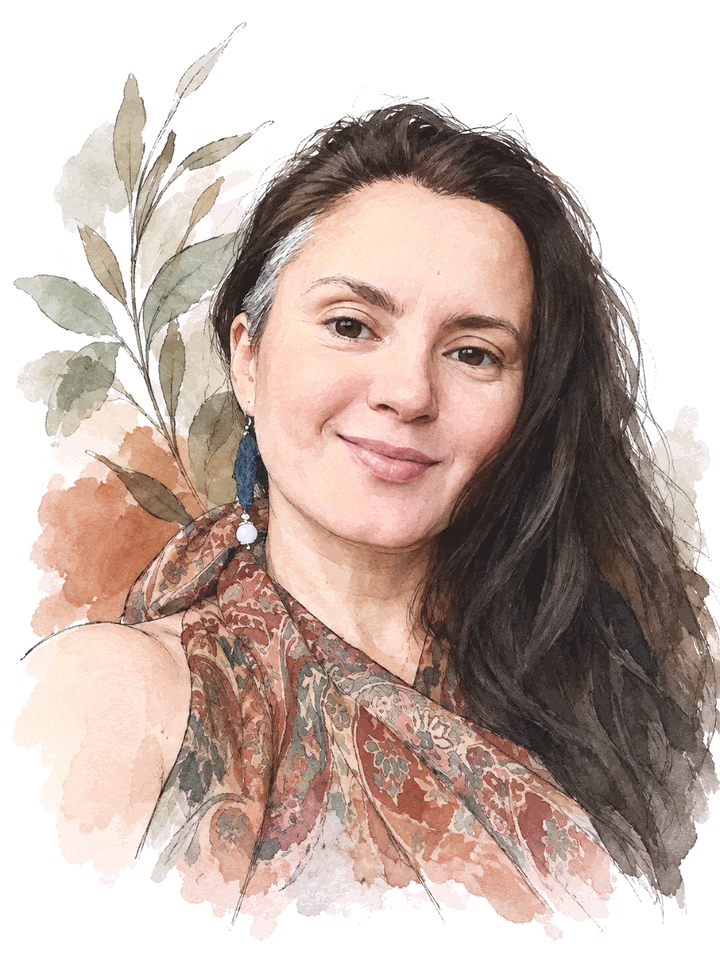
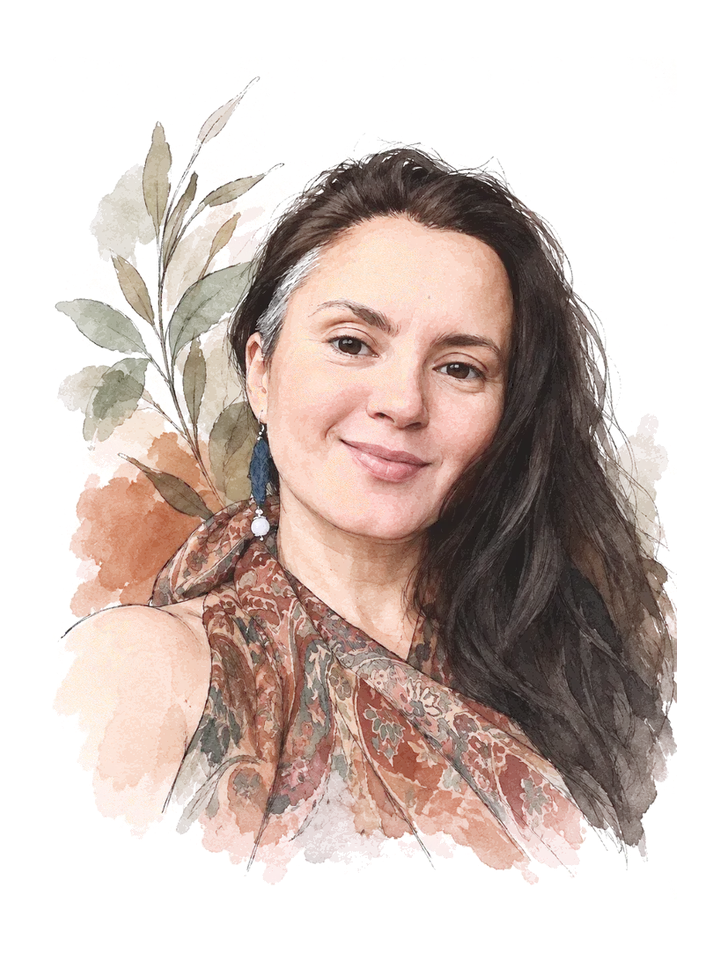
Портрет Ксении: чуть отдалён, по масштабу как у Натальи и Валентины

diff --git a/index.html b/index.html
@@ -274,7 +274,7 @@
   </div>
   <div class="hosts">
     <article class="host">
-      <img src="img/ph-kseniya-360.webp" srcset="img/ph-kseniya-360.webp 360w, img/ph-kseniya-720.webp 720w" sizes="(min-width: 1160px) 340px, (min-width: 700px) 45vw, 90vw" width="360" height="480" alt="Акварельный портрет Ксении Телегиной" loading="lazy" decoding="async">
+      <img src="img/ph-kseniya-360.webp?v=2" srcset="img/ph-kseniya-360.webp?v=2 360w, img/ph-kseniya-720.webp?v=2 720w" sizes="(min-width: 1160px) 340px, (min-width: 700px) 45vw, 90vw" width="360" height="480" alt="Акварельный портрет Ксении Телегиной" loading="lazy" decoding="async">
       <div class="host-name">
         <h3 class="hd">Ксения Телегина</h3>
         <p class="host-role">Йога и медитация · внимание, дыхание, настоящий момент</p>

diff --git a/variant-a.html b/variant-a.html
@@ -289,7 +289,7 @@
   </div>
   <div class="hosts">
     <article class="host">
-      <img src="img/ph-kseniya-360.webp" srcset="img/ph-kseniya-360.webp 360w, img/ph-kseniya-720.webp 720w" sizes="(min-width: 1160px) 340px, (min-width: 700px) 45vw, 90vw" width="360" height="480" alt="Акварельный портрет Ксении Телегиной" loading="lazy" decoding="async">
+      <img src="img/ph-kseniya-360.webp?v=2" srcset="img/ph-kseniya-360.webp?v=2 360w, img/ph-kseniya-720.webp?v=2 720w" sizes="(min-width: 1160px) 340px, (min-width: 700px) 45vw, 90vw" width="360" height="480" alt="Акварельный портрет Ксении Телегиной" loading="lazy" decoding="async">
       <div class="host-name">
         <h3 class="hd">Ксения Телегина</h3>
         <p class="host-role">Йога и медитация · внимание, дыхание, настоящий момент</p>

diff --git a/variant-b.html b/variant-b.html
@@ -276,7 +276,7 @@
   </div>
   <div class="hosts">
     <article class="host">
-      <img src="img/ph-kseniya-360.webp" srcset="img/ph-kseniya-360.webp 360w, img/ph-kseniya-720.webp 720w" sizes="(min-width: 1160px) 340px, (min-width: 700px) 45vw, 90vw" width="360" height="480" alt="Акварельный портрет Ксении Телегиной" loading="lazy" decoding="async">
+      <img src="img/ph-kseniya-360.webp?v=2" srcset="img/ph-kseniya-360.webp?v=2 360w, img/ph-kseniya-720.webp?v=2 720w" sizes="(min-width: 1160px) 340px, (min-width: 700px) 45vw, 90vw" width="360" height="480" alt="Акварельный портрет Ксении Телегиной" loading="lazy" decoding="async">
       <div class="host-name">
         <h3 class="hd">Ксения Телегина</h3>
         <p class="host-role">Йога и медитация · внимание, дыхание, настоящий момент</p>

diff --git a/variant-c.html b/variant-c.html
@@ -266,7 +266,7 @@
   </div>
   <div class="hosts">
     <article class="host">
-      <img src="img/ph-kseniya-360.webp" srcset="img/ph-kseniya-360.webp 360w, img/ph-kseniya-720.webp 720w" sizes="(min-width: 1160px) 340px, (min-width: 700px) 45vw, 90vw" width="360" height="480" alt="Акварельный портрет Ксении Телегиной" loading="lazy" decoding="async">
+      <img src="img/ph-kseniya-360.webp?v=2" srcset="img/ph-kseniya-360.webp?v=2 360w, img/ph-kseniya-720.webp?v=2 720w" sizes="(min-width: 1160px) 340px, (min-width: 700px) 45vw, 90vw" width="360" height="480" alt="Акварельный портрет Ксении Телегиной" loading="lazy" decoding="async">
       <div class="host-name">
         <h3 class="hd">Ксения Телегина</h3>
         <p class="host-role">Йога и медитация · внимание, дыхание, настоящий момент</p>
